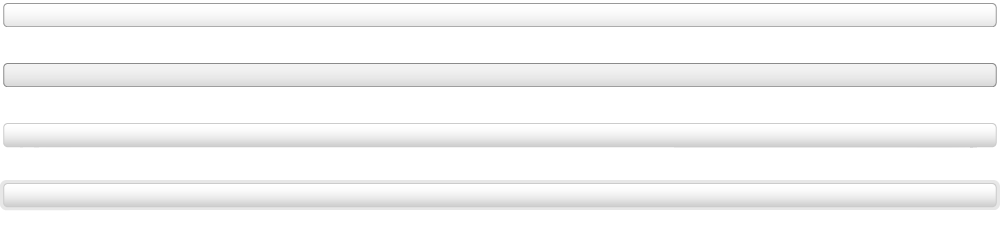
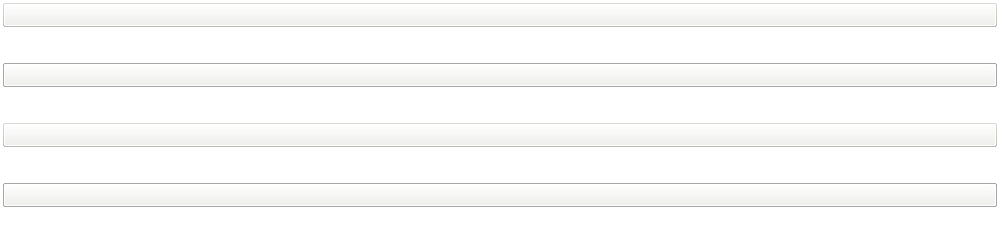
Wii Buttons 배경 이미지 변경 및 input과 a의 글자 위치 다른 부분 변경
git-svn-id: http://xe-core.googlecode.com/svn/trunk@1870 201d5d3c-b55e-5fd7-737f-ddc643e51545

diff --git a/common/css/button.css b/common/css/button.css
@@ -97,9 +97,14 @@ del.button span {
     background-position:100% -123px;
 }
 
+a.button span {
+    _padding-top:7px;
+}
+*:first-child+html a.button span { padding-top:7px; }
 
 span.button button, span.button input {
     padding-top:0px;
+    padding-bottom:3px;
     line-height:2.5;/*Opera need this*/
 }
 
@@ -117,7 +122,7 @@ a.button:hover, span.button:hover, a.button:focus, a.dom-button-focus, span.butt
     text-decoration:none;
 }
 
-a.button:hover span, span.button:hover button, a.button:focus span, span.button-behavior-hover button, span.button-behavior-hover input {
+a.button:hover span, span.button:hover input, span.button:hover button, a.button:focus span, span.button-behavior-hover button, span.button-behavior-hover input {
     background-position:100% -63px;
 }
 
